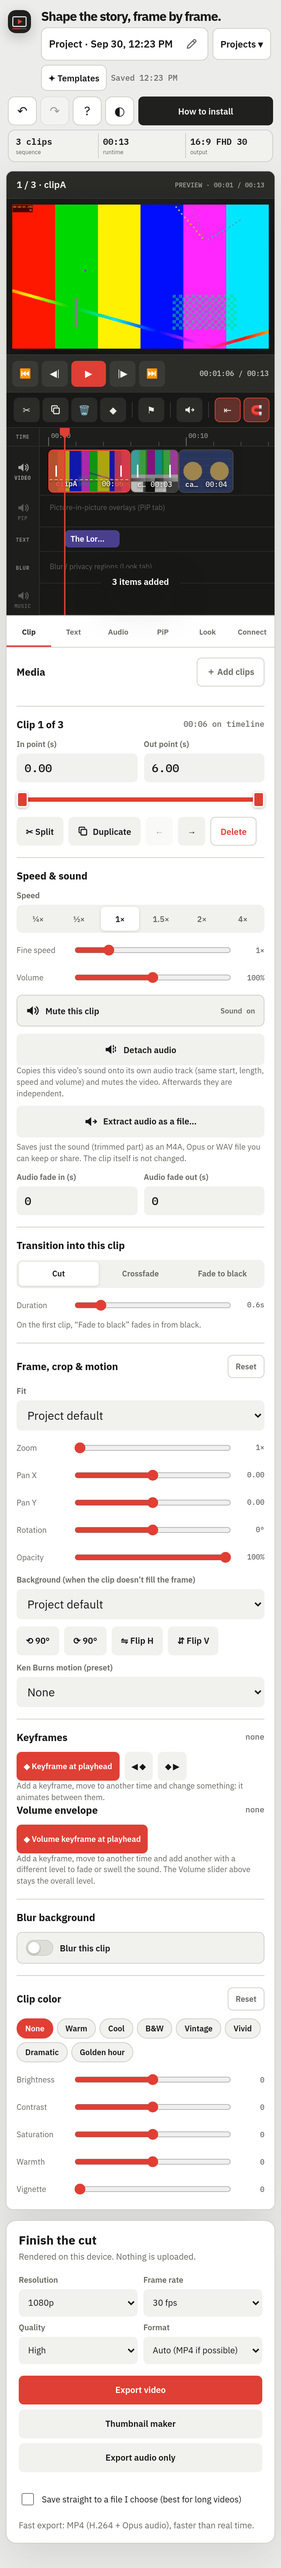
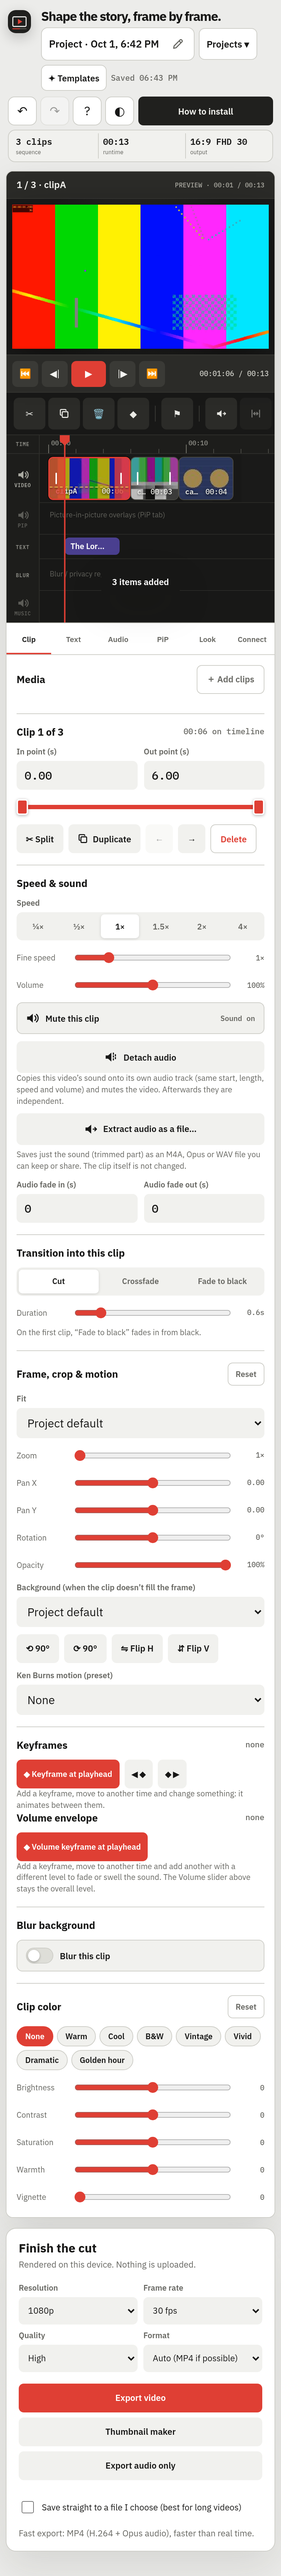
Match audio: timeline toolbar button sets a selected image's length to the audio's end (ripple, undo, keyframes); tests e2e26

diff --git a/js/model.js b/js/model.js
@@ -736,6 +736,69 @@ export function splitItem(project, sel, t) {
  * speed, volume, fades and volume envelope, and the original is muted. After that they are independent (no link kept). Returns
  * { audio } or { fail, reason }. Nothing is changed when it fails. The new track is flagged as a voice track so music keeps ducking under it.
  */
+/**
+ * Match audio: plan (no changes) for making a main-track image clip end where the relevant audio ends.
+ * `sel` is the selection ({type:'clip'} for an image, or {type:'audio'} for a track that starts over a main-track image).
+ * Returns { fail, reason } or { clip, item, audio, len, oldLen, end, capped }.
+ * Audio choice: a track that overlaps the image's start, or starts within 0.5 s after it (a voice or detached track beats music, then the closest start wins); otherwise the unmuted track that ends last. A looped track without a set length repeats to the
+ * end of the video, so it has no end of its own and is never used. `len` is rounded up to a whole frame so the picture covers the sound.
+ */
+export function planMatchAudio(project, sel) {
+  const fail = (reason) => ({ fail: true, reason });
+  const lay = layout(project), fps = project.settings?.fps || 30, total = lay.total;
+  const aud = project.audio || [];
+  const OPEN = (a) => 'Looped track “' + a.name + '” repeats until the video ends, so it has no end to match. Set its length in the Audio tab (or turn Loop off), then tap Match audio.';
+  let it = null, pinned = null;
+  if (!sel) return fail('Nothing selected. Tap an image clip on the timeline first, then tap Match audio.');
+  if (sel.type === 'clip') {
+    it = lay.items.find(i => i.clip.id === sel.id);
+    if (!it) return fail('Nothing selected. Tap an image clip on the timeline first, then tap Match audio.');
+    if (it.clip.kind !== 'image') return fail('A video clip can’t be stretched to fit the audio: its length is the length of the footage. Change its Speed in the Clip tab, or select an image clip and tap Match audio.');
+  } else if (sel.type === 'audio') {
+    pinned = aud.find(a => a.id === sel.id);
+    if (!pinned) return fail('Nothing selected. Tap an image clip on the timeline first, then tap Match audio.');
+    for (const i of lay.items) if (pinned.start >= i.start - 1e-3 && pinned.start < i.end - 1e-3) it = i;
+    if (!it) return fail('This audio doesn’t start over a clip. Select an image clip (or a track that starts over one), then tap Match audio.');
+    if (it.clip.kind !== 'image') return fail('The clip under the start of this audio is a video, not an image. Select an image clip, then tap Match audio.');
+  } else return fail('Match audio works on an image clip. Tap an image on the timeline first (or a music/voice track that starts over one), then tap Match audio.');
+  const c = it.clip, cs = it.start;
+  const span = (a) => (a.loop && !(a.loopLen > 0)) ? null : audioSpan(a, total);
+  const info = (a) => { const sp = span(a); return { a, start: a.start, end: sp == null ? null : a.start + sp }; };
+  let chosen;
+  if (pinned) {
+    const x = info(pinned);
+    if (x.end == null) return fail(OPEN(pinned));
+    if (x.end <= cs + MIN_CLIP) return fail('This audio ends before the image starts, so there is nothing to match.');
+    chosen = x;
+  } else {
+    if (!aud.length) return fail('There is no music, voice or detached audio on the timeline yet. Add some in the Audio tab, then tap Match audio.');
+    const live = aud.filter(a => !a.muted);
+    if (!live.length) return fail('All audio tracks are muted, so there is no sound to match. Unmute one in the Audio tab first.');
+    const all = live.map(info), open = all.filter(x => x.end == null);
+    const valid = all.filter(x => x.end != null && x.end > cs + MIN_CLIP);
+    if (!valid.length) return fail(open.length ? OPEN(open[0].a) : 'The audio on the timeline ends before this image starts, so there is nothing to match.');
+    const rel = valid.filter(x => (x.start <= cs + 0.05 && x.end > cs + 0.05) || (x.start > cs + 0.05 && x.start <= cs + 0.5));
+    if (rel.length) rel.sort((p, q) => (q.a.voice ? 1 : 0) - (p.a.voice ? 1 : 0) || Math.abs(p.start - cs) - Math.abs(q.start - cs) || q.end - p.end);
+    else valid.sort((p, q) => q.end - p.end);
+    chosen = (rel.length ? rel : valid)[0];
+  }
+  let len = Math.max(MIN_CLIP, Math.ceil((chosen.end - cs) * fps - 1e-3) / fps);
+  const cap = Math.max(MIN_CLIP, (c.srcDuration || 3600) - (c.in || 0)); let capped = false;
+  if (len > cap) { len = cap; capped = true; }
+  return { clip: c, item: it, audio: chosen.a, len, oldLen: it.len, end: cs + len, capped };
+}
+/** Apply planMatchAudio: set the image's length (keyframes keep their relative place, Ken Burns follows the new length). */
+export function matchImageToAudio(project, sel, { ripple = false } = {}) {
+  const plan = planMatchAudio(project, sel);
+  if (plan.fail) return plan;
+  if (Math.abs(plan.len - plan.oldLen) < 1e-4) return { ...plan, unchanged: true };
+  const c = plan.clip, before = layout(project), k = plan.len / plan.oldLen, a0 = plan.audio.start;
+  for (const tr of Object.values(c.keyframes || {})) for (const key of tr) key.t = Math.round(key.t * k * 1e6) / 1e6;
+  c.out = c.in + plan.len;
+  if (ripple) { rippleShift(project, plan.item.end - 1e-3, layout(project).total - before.total); plan.audio.start = a0; }
+  return plan;
+}
+
 export function detachAudio(project, sel) {
   const fail = (reason) => ({ fail: true, reason });
   let src, start, fadeIn, fadeOut, speed, vol;

diff --git a/js/app.js b/js/app.js
@@ -8,7 +8,7 @@ import { db, mediaIdsOf, setKeepProvider } from './db.js';
 import { media, kindOf, isHeic, isMediaDataURL, seekVideo } from './media.js';
 import {
   newProject, migrate, layout, clipAt, clipLen, audioLen, newClipFromMedia, newText, newAudio, removeClip, duplicateClip,
-  moveClip, rippleShift, History, PRESETS, FONTS, outputDims, defaultColor, defaultTransform, MIN_CLIP,
+  moveClip, rippleShift, matchImageToAudio, History, PRESETS, FONTS, outputDims, defaultColor, defaultTransform, MIN_CLIP,
   newOverlay, overlayLen, animated, hasKeyframes, setKeyframe, kfTimes, removeKeyframesAt, setEaseAt, normalizeClip,
   splitItem, audioSpan, defaultProjectName, cleanProjectName, fixedProjectName, rebaseKeyframes, MOTION_PROPS, detachAudio, hasSound, volumeEnv, VOL_KEY_MAX, audioSpeed, overlaysAt, overlaySourceTime, thumbFormat, newBlur, animPropsOf, cleanBlur, cleanClipBlur, textLabel, blurLabel,
 } from './model.js';
@@ -438,6 +438,12 @@ function fillInspector() {
   const setState = (sel, ok, tipOk, tipNo) => qsa(sel).forEach(b => { b.disabled = false; b.setAttribute('aria-disabled', ok ? 'false' : 'true'); b.classList.toggle('is-off', !ok); b.title = ok ? tipOk : tipNo; });
   setState('.tl-toolbar [data-action=duplicate]', !!st, 'Duplicate selected (Ctrl+D)', TOOL_HINT.duplicate.none);
   setState('.tl-toolbar [data-action=delete]', !!st, 'Delete selected (Del)', TOOL_HINT.delete.none);
+  {
+    const selClip = st === 'clip' ? selected('clip') : null;
+    const maOk = (selClip && selClip.kind === 'image') || st === 'audio';
+    setState('.tl-toolbar [data-action=matchAudio]', !!maOk, 'Match audio: make the selected image as long as the audio',
+      st === 'clip' ? 'A video clip can’t be stretched to fit the audio. Select an image clip instead.' : 'Match audio: select an image clip on the timeline first, then tap it to make the image as long as the audio.');
+  }
   setState('.tl-toolbar [data-action=addKeyframe]', kfOk, 'Keyframe the selected item at the playhead (Shift+K). On a music or voice track it adds a volume keyframe.', TOOL_HINT.addKeyframe[st || 'none'] || TOOL_HINT.addKeyframe.none);
 }
 // Side-panel lists: rebuilt only when what they show changed (they're refreshed on every slider input event).
@@ -566,6 +572,17 @@ const actions = {
     else return toast(TOOL_HINT.delete.none);
     const what = { clip: 'Clip', text: 'Text', audio: item.voice ? 'Voice track' : 'Music track', overlay: 'Overlay', blur: 'Blur region', marker: 'Marker' }[s.type];
     app.selection = null; app.commit('Delete'); toast(what + ' deleted. Undo (Ctrl+Z) brings it back.');
+  },
+  matchAudio() {
+    // Make the selected image as long as the audio (or, with an audio track selected, the image under its start).
+    const sel = app.selection && selected(app.selection.type) ? app.selection : null;
+    const r = matchImageToAudio(app.project, sel, { ripple: app.rippleEnabled });
+    if (r.fail) return toast(r.reason, 6000);
+    const L = (v) => { const w = Math.floor(v + 1e-6), f = Math.round((v - w) * 100); return fmt(w) + (f ? '.' + String(f).padStart(2, '0') : ''); };
+    const nm = r.audio.name || (r.audio.voice ? 'Voice' : 'Music');
+    if (r.unchanged) return toast('Image already ' + L(r.len) + ', matching ' + nm + '.');
+    app.commit('Match audio');
+    toast('Image now ' + L(r.len) + ', matching ' + nm + (r.capped ? ' (the longest an image can be here)' : '') + '. Undo (Ctrl+Z) puts it back.', 5000);
   },
   moveLeft() { const c = selected('clip'); if (!c) return; const i = app.project.clips.indexOf(c); if (i > 0) { moveClip(app.project, i, i - 1); app.commit('Move clip'); } },
   moveRight() { const c = selected('clip'); if (!c) return; const i = app.project.clips.indexOf(c); if (i < app.project.clips.length - 1) { moveClip(app.project, i, i + 1); app.commit('Move clip'); } },

diff --git a/index.html b/index.html
@@ -4,7 +4,7 @@
   <meta charset="utf-8" />
   <meta name="viewport" content="width=device-width, initial-scale=1, viewport-fit=cover" />
   <meta name="color-scheme" content="light dark" />
-  <meta name="ve-build" content="vf0be742bff" />
+  <meta name="ve-build" content="v24de9657c8" />
   <meta name="theme-color" content="#20201e" media="(prefers-color-scheme: light)" />
   <meta name="theme-color" content="#090909" media="(prefers-color-scheme: dark)" />
   <!-- Defense in depth: only this site's own scripts, styles, fonts, workers and wasm; media from blob:/data: URLs. -->
@@ -525,6 +525,7 @@
         <button class="tool" data-action="addMarker" type="button" title="Add marker (M)">⚑<span>Marker</span></button>
         <i class="sep"></i>
         <button class="tool" data-action="extractAudio" id="toolExtract" type="button" aria-label="Extract audio" title="Extract audio: save the selected clip's sound as an audio file (M4A, Opus or WAV)"><svg class="ico" viewBox="0 0 16 16" aria-hidden="true"><path d="M1.5 6h3L8.5 2.5v11L4.5 10h-3z" fill="currentColor"/><path d="M11 8h4M13 6l2 2-2 2" fill="none" stroke="currentColor" stroke-width="1.4" stroke-linecap="round" stroke-linejoin="round"/></svg><span>Extract audio</span></button>
+        <button class="tool" data-action="matchAudio" id="toolMatchAudio" type="button" aria-label="Match audio" title="Match audio: make the selected image as long as the audio"><svg class="ico" viewBox="0 0 16 16" aria-hidden="true"><path d="M2 2.5v11M14 2.5v11" fill="none" stroke="currentColor" stroke-width="1.6" stroke-linecap="round"/><path d="M4.5 8h7M4.5 8l2-2M4.5 8l2 2M11.5 8l-2-2M11.5 8l-2 2" fill="none" stroke="currentColor" stroke-width="1.5" stroke-linecap="round" stroke-linejoin="round"/></svg><span>Match audio</span></button>
         <i class="sep"></i>
         <button class="tool toggle" id="rippleBtn" type="button" title="Ripple: deleting/trimming clips shifts text, music and markers after the edit" aria-pressed="true">⇤<span>Ripple</span></button>
         <button class="tool toggle" id="snapBtn" type="button" title="Snapping" aria-pressed="true">🧲<span>Snap</span></button>

diff --git a/css/app.css b/css/app.css
@@ -338,7 +338,7 @@ kbd{font:600 11px "IBM Plex Mono",monospace;background:var(--surface-2);border:1
   .transport button{width:36px}
   .transport-time{right:8px;font-size:10px}
   .tool span{display:none}
-  .tool{padding:0 9px}
+  .tool{padding:0 9px;height:44px;min-width:44px}
   #zoomRange{width:70px}
   .tl-heads{width:46px}
   .tl-head{font-size:7px}

diff --git a/sw.js b/sw.js
@@ -1,5 +1,5 @@
 /* Video Editor service worker: offline app shell (versioned cache) + share target inbox. */
-const VERSION = 'vf0be742bff';
+const VERSION = 'v24de9657c8';
 const CACHE = 'video-editor-shell-' + VERSION;
 const SHELL = [
   './', './index.html', './manifest.webmanifest',

diff --git a/js/build.js b/js/build.js
@@ -1,2 +1,2 @@
 // Written by bump-version.py. Must equal <meta name="ve-build"> in index.html, or the page reloads itself once.
-export const BUILD = 'vf0be742bff';
+export const BUILD = 'v24de9657c8';

diff --git a/README.md b/README.md
@@ -21,6 +21,7 @@ The app is plain static files (HTML, CSS and ES modules). There's no build step.
 - **Volume keyframes (volume envelope):** volume can be keyframed on main clips, overlay videos, music and voice tracks. The envelope is a **multiplier of the Volume slider** (100% = the slider's level, up to 200%), so the slider stays the overall level; fades, ducking and mute apply on top. Tap **Keyframe** (toolbar or `Shift+K`) with a music or voice track selected to add a volume keyframe at the playhead. For clips and overlays the Clip / Picture-in-picture tab has a **Volume envelope** section next to the position / scale / rotation / opacity keyframes (motion keyframes and volume keyframes are separate: the motion button never adds volume keys). Each key is listed with its time, level (%) and easing (Linear, Ease in/out, Hold) and can be deleted, and **Clear volume keys** removes them. On the timeline the selected item shows a yellow line over the waveform (clips and overlays: over the picture; the middle is 100%, the top 200%) with dots you can drag with the mouse or a finger: sideways to move a key in time, up and down to change its level (5% steps, hold Shift for fine). The envelope is applied sample-accurately in both export engines (WebAudio gain automation in the offline mixer, sampled every 20 ms and exactly at each key, so a Hold key steps within half a millisecond) and with a 100 ms-lookahead WebAudio ramp in the preview. Keys keep their place on the sound when you split (the level is interpolated at the cut), duplicate, trim the start (or drag the left edge) or move the item; looped music applies the envelope over its whole looped length; a clip whose envelope is silent does not duck music there. Saved projects: keys live in `keyframes.volume` (no schema change); older projects load with no envelope, and imported keys are cleaned (finite numbers, 0–2, valid easing, one key per moment).
 - **Detach audio:** select a video clip (Clip tab) or a video overlay (Picture-in-picture tab) and tap **Detach audio**. It creates a new track in the Audio tab with that clip's sound (same start, in-point, length, speed, volume, fades and volume envelope; picture transitions become audio fades) and mutes the original, so the sound is exported exactly once. It reads the same stored media, streamed like music and voice (WebCodecs, a few seconds in memory at a time; the preview plays it from the same file), so a 60-minute source is never decoded whole. After detaching, the two are independent: the new track can be moved, trimmed, split, faded, keyframed, muted or removed on its own (undo restores the clip's sound and removes the track in one step). Detaching a muted or already detached clip explains why nothing happened. There is no toolbar button for it, on purpose. The button answers at once (it shows **Detaching…** with a spinner and ignores extra taps); the new track is created instantly without decoding the file, and the waveform fills in later in the background. A quick header-only check (5 s hard timeout) then tells you if the video has no audio ("This video has no audio": the detach is undone; for known silent videos the button stays visible but greyed with the reason) or if your browser can't read its audio format (the track is still created and refers to the original media). Any error in a button shows as a toast instead of failing silently.
 - **Extract audio (save the sound as a file):** Clip tab / overlay panel → **Extract audio as a file…**, the **Extract audio** button in the timeline toolbar, **Save as audio file…** on a music/voice track, **Audio tab → Extract audio from a video file…** (any video or audio file, even one the browser can't show, e.g. iPhone H.265 on a laptop) and **Export audio only** (the whole timeline mixed, no picture) next to Export video. Formats: **M4A** (an AAC track is copied without re-encoding, so an hour takes seconds), **Opus (.ogg)** and **WAV**. It streams to disk in small pieces with a progress bar and **Cancel**; closing the sheet cancels; a stalled job ends with a clear message after 45 s. Messages: "This video has no audio.", "This audio format can’t be read by your browser (ac3).".
+- **Match audio (timeline toolbar):** select an image clip (or a GIF/still) and tap **Match audio** to make it end where the audio ends. Which audio: a music, voice or detached-audio track that overlaps the image's start or starts within half a second after it (a voice/detached track wins over music, then the closest start); otherwise the unmuted track that ends last. Length on the timeline accounts for trim, speed and a looped track's set length; the image length is rounded up to a whole frame (project fps) so the picture never ends before the sound. A toast says what was matched ("Image now 02:34, matching Voiceover"). With an audio track selected instead, it matches the image under that track's start. Ripple follows the Ripple toggle (later text, music, overlays and markers shift; with Ripple off nothing else moves and clips follow the normal overlap rules). Keyframes keep their relative place (times scale with the new length, end values are unchanged) and Ken Burns spreads over the new length. One undo step; a second tap says it already matches. A video clip can't be stretched (the toast says so and points to Speed), a looped track with no set length repeats to the end of the video so it has no end to match (the toast says to set its length), and with nothing selected or no audio the button is dimmed (`aria-disabled`) and tapping it explains. On phones it is a 44 px icon in the scrolling toolbar; on desktop it shows the "Match audio" label. Saved projects need no change (it only edits the image's `out`).
 - **Responsiveness:** waveform work runs in small slices that yield to the page (and back off while the page is busy); one waveform job at a time; a long-task monitor (`app.perf`) watches for main-thread blocks. Waveforms/metadata are stored in a tiny IndexedDB entry (`mx:<id>`) instead of rewriting the whole video record. An idle installed tab takes a new version by itself; a tab with edits shows the "new version ready" bar.
 - **Mute buttons:** every timeline track header (VIDEO, PIP, MUSIC and, once you have a voiceover, VOICE) has a speaker button (`aria-pressed`, at least 40 px to tap) that mutes or unmutes everything on that track in one tap. It shows a mixed state when only some items are muted. Muted clips, PiP videos and music/voice tracks get a small speaker-off badge on the timeline. It is undoable, saved with the project, and copies made by Split and Duplicate stay muted. Muted audio is left out of both export engines, and a muted clip or voiceover does not trigger ducking.
 - **Music tracks:** trim, offset, volume, fade in/out, **Loop** (repeats the trimmed section until the video ends, or for a length you set; loop seams show on the timeline), and optional auto-ducking under clip audio and voiceovers. A track never ducks under itself. The timeline shows a waveform.
